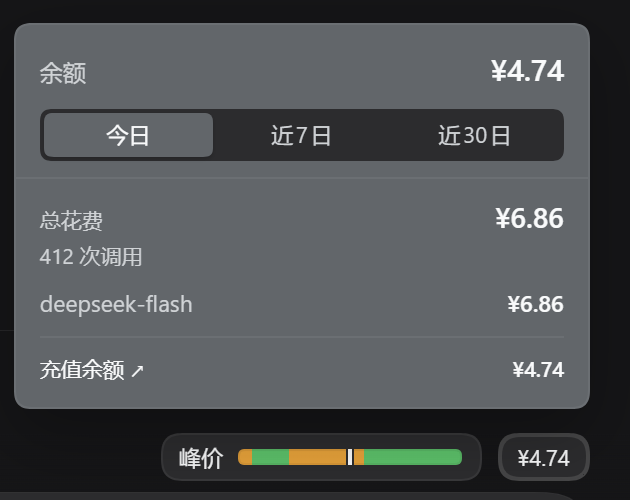
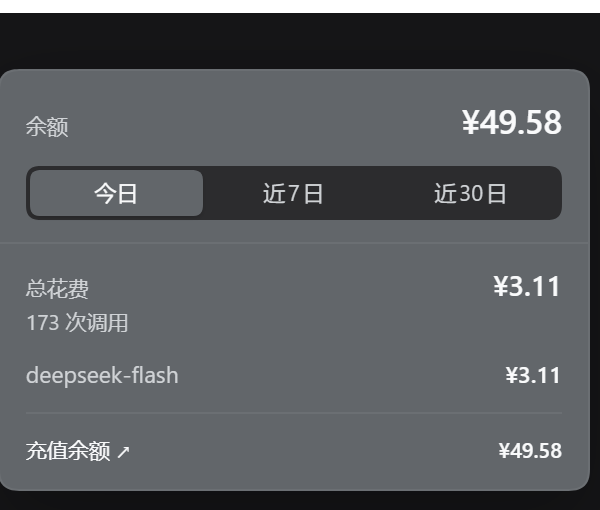
0.1.1: one instrument instead of two pills
The strip and the balance now share a single capsule with a hairline divider,
so they read as one reading rather than two chips. The tape gets a playhead
that overhangs it, the phase callout loses its redundant header, the panel
gains a real type scale (17px balance, 14px total, 10.5px captions), a
segmented tab track and a today-weighted bar chart. Screenshots refreshed.

diff --git a/client.js b/client.js
@@ -73,49 +73,57 @@ window.__ModuleLoader__.load({
 
     const CSS = `
 .dbb-row{box-sizing:border-box;width:100%;padding:0 calc(var(--dsh-composer-side-clearance,16px) - var(--dsh-composer-dock-inset,8px));display:flex;justify-content:center}
-.dbb-inner{box-sizing:border-box;width:100%;max-width:var(--dsh-composer-card-max-width,720px);display:flex;align-items:center;justify-content:flex-end;gap:8px;font-size:11px;line-height:1;color:var(--dsw-alias-label-secondary);user-select:none}
-.dbb-cell{position:relative;display:inline-flex}
-.dbb-bar{display:inline-flex;align-items:center;gap:7px;height:22px;padding:0 9px 0 8px;border-radius:999px;border:1px solid var(--dsw-alias-border-l1);background:var(--dsw-alias-bg-layer-2);cursor:default;transition:border-color .15s ease}
-.dbb-bar:hover,.dbb-bar:focus-visible,.dbb-balance:hover,.dbb-balance:focus-visible{border-color:var(--dsw-alias-border-l2);outline:none}
-.dbb-label{font-size:11px;color:var(--dsw-alias-label-primary);letter-spacing:.02em;white-space:nowrap}
-.dbb-strip{position:relative;display:block;width:112px;height:8px;border-radius:999px;overflow:hidden;background:var(--dsw-alias-bg-base);box-shadow:inset 0 0 0 1px var(--dsw-alias-border-l1)}
-.dbb-now{position:absolute;top:-1px;bottom:-1px;width:2px;transform:translateX(-1px);background:var(--dsw-alias-label-primary);box-shadow:0 0 0 1px var(--dsw-alias-bg-layer-2);border-radius:1px}
-.dbb-balance{display:inline-flex;align-items:center;height:22px;padding:0 9px;border-radius:999px;border:1px solid var(--dsw-alias-border-l1);background:var(--dsw-alias-bg-layer-2);color:var(--dsw-alias-label-secondary);font-variant-numeric:tabular-nums;cursor:pointer}
-.dbb-balance[data-pinned="1"]{border-color:var(--dsw-alias-border-l2);box-shadow:inset 0 0 0 1px var(--dsw-alias-border-l2);color:var(--dsw-alias-label-primary)}
-.dbb-tip{position:absolute;right:0;bottom:calc(100% + 8px);z-index:40;min-width:176px;padding:9px 11px;border-radius:9px;border:1px solid var(--dsw-alias-border-l1);background:var(--dsw-alias-bg-overlay);box-shadow:0 10px 28px rgba(0,0,0,.22);color:var(--dsw-alias-label-primary);font-size:11.5px;line-height:1.7;pointer-events:none;white-space:nowrap}
-.dbb-tip-head{color:var(--dsw-alias-label-secondary);margin-bottom:2px}
-.dbb-tip-strong{font-size:13px;font-weight:600;color:var(--dsw-alias-label-primary)}
-.dbb-tip-row{display:flex;justify-content:space-between;gap:20px;color:var(--dsw-alias-label-secondary)}
+.dbb-inner{box-sizing:border-box;width:100%;max-width:var(--dsh-composer-card-max-width,720px);display:flex;align-items:center;justify-content:flex-end;gap:8px;font-size:11px;line-height:1;user-select:none}
+.dbb-cap{position:relative;display:inline-flex;align-items:center;height:24px;border-radius:999px;border:1px solid var(--dsw-alias-border-l1);background:var(--dsw-alias-bg-layer-2);box-shadow:0 1px 1px rgba(0,0,0,.08)}
+.dbb-seg{display:inline-flex;align-items:center;gap:9px;height:100%;padding:0 11px;border-radius:999px;cursor:default;transition:background-color .14s ease}
+.dbb-seg:focus-visible{outline:2px solid var(--dsw-alias-brand-primary);outline-offset:-2px}
+.dbb-seg:hover,.dbb-seg:focus-visible{background:color-mix(in srgb, var(--dsw-alias-label-primary) 7%, transparent)}
+.dbb-sep{width:1px;height:12px;flex:none;background:var(--dsw-alias-border-l1)}
+.dbb-label{font-size:11px;color:var(--dsw-alias-label-primary);white-space:nowrap}
+.dbb-tapewrap{position:relative;display:block;width:120px;height:8px}
+.dbb-tape{position:absolute;inset:0;border-radius:4px;overflow:hidden;background:var(--dsw-alias-bg-base);box-shadow:inset 0 0 0 1px var(--dsw-alias-border-l1)}
+.dbb-needle{position:absolute;left:50%;top:-3px;bottom:-3px;width:2px;transform:translateX(-1px);border-radius:1px;background:var(--dsw-alias-label-primary);box-shadow:0 0 0 1px var(--dsw-alias-bg-layer-2)}
+.dbb-amount{font-size:12px;font-weight:500;color:var(--dsw-alias-label-primary);font-variant-numeric:tabular-nums;letter-spacing:.01em;white-space:nowrap}
+.dbb-seg-bal{padding:0 12px}
+.dbb-seg-bal[data-pinned="1"]{background:color-mix(in srgb, var(--dsw-alias-brand-primary) 13%, transparent)}
+.dbb-tip{position:absolute;right:0;bottom:calc(100% + 8px);z-index:40;min-width:200px;padding:11px 12px;border-radius:11px;border:1px solid var(--dsw-alias-border-l1);background:var(--dsw-alias-bg-overlay);box-shadow:0 14px 34px rgba(0,0,0,.24);color:var(--dsw-alias-label-primary);font-size:11.5px;line-height:1.6;pointer-events:none;white-space:nowrap;animation:dbb-rise .13s ease-out}
+.dbb-tip-head{display:flex;align-items:center;gap:7px}
+.dbb-swatch{display:inline-block;width:7px;height:7px;border-radius:2px;flex:none}
+.dbb-tip-strong{font-size:12.5px;font-weight:600;color:var(--dsw-alias-label-primary)}
+.dbb-tip-row{display:flex;justify-content:space-between;gap:18px;margin-top:4px;color:var(--dsw-alias-label-secondary)}
 .dbb-tip-row b{font-weight:500;color:var(--dsw-alias-label-primary);font-variant-numeric:tabular-nums}
-.dbb-tip-hint{margin-top:5px;padding-top:5px;border-top:1px solid var(--dsw-alias-border-l1);color:var(--dsw-alias-label-secondary);font-size:10.5px}
-.dbb-dot{display:inline-block;width:6px;height:6px;border-radius:999px;background:var(--dbb-accent);margin-right:6px;vertical-align:1px}
-.dbb-legend{display:flex;gap:12px;margin-top:5px;padding-top:5px;border-top:1px solid var(--dsw-alias-border-l1);font-size:10.5px;color:var(--dsw-alias-label-secondary)}
-.dbb-legend i{display:inline-block;width:8px;height:8px;border-radius:2px;margin-right:4px;vertical-align:-1px}
-.dbb-pop-wrap{position:absolute;right:0;bottom:calc(100% + 6px);z-index:41;padding-bottom:6px}
-.dbb-pop{width:262px;padding:10px 12px 11px;border-radius:10px;border:1px solid var(--dsw-alias-border-l1);background:var(--dsw-alias-bg-overlay);box-shadow:0 12px 32px rgba(0,0,0,.26);color:var(--dsw-alias-label-primary);font-size:11.5px;line-height:1.6}
-.dbb-pop-head{display:flex;align-items:baseline;justify-content:space-between;gap:12px}
-.dbb-pop-title{color:var(--dsw-alias-label-secondary)}
-.dbb-pop-balance{font-size:15px;font-weight:600;font-variant-numeric:tabular-nums}
-.dbb-tabs{display:flex;gap:2px;margin:8px 0 2px;padding:2px;border-radius:7px;background:var(--dsw-alias-bg-layer-2)}
-.dbb-tab{flex:1;height:22px;padding:0;border:none;border-radius:5px;background:transparent;color:var(--dsw-alias-label-secondary);font:inherit;font-size:11px;cursor:pointer}
+.dbb-hair{margin:8px -12px 0;border-top:1px solid var(--dsw-alias-border-l1)}
+.dbb-legend{display:flex;gap:14px;margin-top:8px;font-size:10.5px;color:var(--dsw-alias-label-secondary)}
+.dbb-legend span{display:inline-flex;align-items:center;gap:5px}
+.dbb-tip-hint{margin-top:8px;color:var(--dsw-alias-label-secondary);font-size:10.5px}
+.dbb-pop-wrap{position:absolute;right:0;bottom:calc(100% + 7px);z-index:41;padding-bottom:7px}
+.dbb-pop{width:268px;padding:12px 13px;border-radius:12px;border:1px solid var(--dsw-alias-border-l1);background:var(--dsw-alias-bg-overlay);box-shadow:0 16px 38px rgba(0,0,0,.28);color:var(--dsw-alias-label-primary);font-size:11.5px;line-height:1.5;animation:dbb-rise .13s ease-out}
+.dbb-pop-head{display:flex;align-items:flex-end;justify-content:space-between;gap:12px}
+.dbb-pop-title{font-size:10.5px;color:var(--dsw-alias-label-secondary);padding-bottom:2px}
+.dbb-pop-balance{font-size:17px;font-weight:600;letter-spacing:-.01em;font-variant-numeric:tabular-nums}
+.dbb-tabs{display:flex;gap:2px;margin-top:10px;padding:2px;border-radius:8px;background:var(--dsw-alias-bg-layer-2)}
+.dbb-tab{flex:1;height:23px;padding:0;border:none;border-radius:6px;background:transparent;color:var(--dsw-alias-label-secondary);font:inherit;font-size:11px;cursor:pointer;transition:color .12s ease}
 .dbb-tab:hover{color:var(--dsw-alias-label-primary)}
-.dbb-tab[data-on="1"]{background:var(--dsw-alias-bg-overlay);color:var(--dsw-alias-label-primary);box-shadow:0 1px 2px rgba(0,0,0,.16)}
-.dbb-pop-sep{margin:8px -12px 0;border-top:1px solid var(--dsw-alias-border-l1)}
-.dbb-pop-total{display:flex;align-items:baseline;justify-content:space-between;gap:12px;margin-top:8px}
-.dbb-pop-total b{font-size:14px;font-weight:600;font-variant-numeric:tabular-nums}
-.dbb-pop-muted{color:var(--dsw-alias-label-secondary);font-size:10.5px}
-.dbb-chart{display:flex;align-items:flex-end;gap:2px;height:34px;margin:7px 0 2px}
-.dbb-cbar{flex:1;min-width:2px;border-radius:2px 2px 0 0;background:var(--dsw-alias-brand-primary);opacity:.75}
-.dbb-cbar[data-zero="1"]{opacity:.18}
-.dbb-models{margin-top:6px;display:flex;flex-direction:column;gap:2px;max-height:110px;overflow-y:auto}
+.dbb-tab[data-on="1"]{background:var(--dsw-alias-bg-overlay);color:var(--dsw-alias-label-primary);box-shadow:0 1px 2px rgba(0,0,0,.14)}
+.dbb-sep-h{margin:11px -13px 0;border-top:1px solid var(--dsw-alias-border-l1)}
+.dbb-total{display:flex;align-items:baseline;justify-content:space-between;gap:12px;margin-top:10px}
+.dbb-total b{font-size:14px;font-weight:600;font-variant-numeric:tabular-nums}
+.dbb-sub{color:var(--dsw-alias-label-secondary);font-size:10.5px}
+.dbb-chart{display:flex;align-items:flex-end;gap:2px;height:36px;margin-top:10px;border-bottom:1px solid var(--dsw-alias-border-l1)}
+.dbb-cbar{flex:1;min-width:2px;border-radius:2px 2px 0 0;background:var(--dsw-alias-brand-primary);opacity:.62;transition:height .18s ease, opacity .12s ease}
+.dbb-cbar[data-zero="1"]{opacity:.16}
+.dbb-cbar[data-today="1"]{opacity:1}
+.dbb-models{margin-top:10px;display:flex;flex-direction:column;gap:3px;max-height:112px;overflow-y:auto}
 .dbb-model{display:flex;justify-content:space-between;gap:14px;color:var(--dsw-alias-label-secondary)}
 .dbb-model b{font-weight:500;color:var(--dsw-alias-label-primary);font-variant-numeric:tabular-nums}
-.dbb-pop-foot{margin-top:7px;padding-top:7px;border-top:1px solid var(--dsw-alias-border-l1);display:flex;flex-direction:column;gap:3px;color:var(--dsw-alias-label-secondary);font-size:10.5px}
-.dbb-pop-foot span,.dbb-recharge{display:flex;justify-content:space-between;gap:12px}
-.dbb-pop-foot b,.dbb-recharge b{font-weight:500;color:var(--dsw-alias-label-primary);font-variant-numeric:tabular-nums}
+.dbb-foot{margin-top:10px;padding-top:10px;border-top:1px solid var(--dsw-alias-border-l1);display:flex;flex-direction:column;gap:4px;color:var(--dsw-alias-label-secondary);font-size:10.5px}
+.dbb-foot > span,.dbb-recharge{display:flex;justify-content:space-between;gap:12px}
+.dbb-foot b,.dbb-recharge b{font-weight:500;color:var(--dsw-alias-label-primary);font-variant-numeric:tabular-nums}
 .dbb-recharge{color:var(--dsw-alias-brand-primary);text-decoration:none;cursor:pointer}
 .dbb-recharge:hover span{text-decoration:underline}
 .dbb-recharge b{color:var(--dsw-alias-brand-primary)}
+@keyframes dbb-rise{from{opacity:0;transform:translateY(3px)}to{opacity:1;transform:none}}
+@media (prefers-reduced-motion: reduce){.dbb-tip,.dbb-pop{animation:none}.dbb-cbar{transition:none}}
 `
 
     const money = value => (Number.isFinite(value) ? `¥${value.toFixed(2)}` : '—')
@@ -317,23 +325,26 @@ window.__ModuleLoader__.load({
       const balanceLabel = failed ? '—' : data === null ? '…' : balanceReady ? money(balance.total) : '—'
 
       const phaseTip = h('div', { className: 'dbb-tip', role: 'tooltip' },
-        h('div', { className: 'dbb-tip-head' }, dict.phaseTitle),
         failed
           ? h('div', { className: 'dbb-tip-row' }, h('span', null, dict.unavailable))
           : data === null
             ? h('div', { className: 'dbb-tip-row' }, h('span', null, dict.loading))
             : [
-                h('div', { key: 'head' },
-                  h('span', { className: 'dbb-dot' }),
+                h('div', { key: 'head', className: 'dbb-tip-head' },
+                  h('i', {
+                    className: 'dbb-swatch',
+                    style: { background: peak ? 'var(--dsw-alias-state-warn-primary)' : 'var(--dsw-alias-state-success-primary)' }
+                  }),
                   h('span', { className: 'dbb-tip-strong' }, peak ? dict.peak : dict.offPeak)),
                 data.phase.next
                   ? h('div', { key: 'next', className: 'dbb-tip-row' },
                       h('span', null, `${duration(remaining)}${dict.into}${data.phase.next.phase === 'peak' ? dict.peak : dict.offPeak}`),
                       h('b', null, clock(data.phase.next.at)))
                   : null,
+                h('div', { key: 'hair', className: 'dbb-hair' }),
                 h('div', { key: 'legend', className: 'dbb-legend' },
-                  h('span', null, h('i', { style: { background: 'var(--dsw-alias-state-warn-primary)' } }), dict.legendPeak),
-                  h('span', null, h('i', { style: { background: 'var(--dsw-alias-state-success-primary)' } }), dict.legendOff)),
+                  h('span', null, h('i', { className: 'dbb-swatch', style: { background: 'var(--dsw-alias-state-warn-primary)' } }), dict.legendPeak),
+                  h('span', null, h('i', { className: 'dbb-swatch', style: { background: 'var(--dsw-alias-state-success-primary)' } }), dict.legendOff)),
                 h('div', { key: 'hint', className: 'dbb-tip-hint' }, dict.windowHint)
               ]
       )
@@ -368,24 +379,25 @@ window.__ModuleLoader__.load({
               onClick: () => pickRange(item.id)
             }, dictIndex === 'zh' ? item.zh : item.en))),
 
-          h('div', { className: 'dbb-pop-sep' }),
+          h('div', { className: 'dbb-sep-h' }),
 
           failed
-            ? h('div', { className: 'dbb-pop-muted', style: { marginTop: 8 } }, dict.unavailable)
+            ? h('div', { className: 'dbb-sub', style: { marginTop: 10 } }, dict.unavailable)
             : usage === null
-              ? h('div', { className: 'dbb-pop-muted', style: { marginTop: 8 } }, dict.loading)
+              ? h('div', { className: 'dbb-sub', style: { marginTop: 10 } }, dict.loading)
               : [
-                  h('div', { key: 'total', className: 'dbb-pop-total' },
-                    h('span', { className: 'dbb-pop-muted' }, dict.total),
+                  h('div', { key: 'total', className: 'dbb-total' },
+                    h('span', { className: 'dbb-sub' }, dict.total),
                     h('b', null, shortMoney(usage.total))),
-                  h('div', { key: 'calls', className: 'dbb-pop-muted' },
+                  h('div', { key: 'calls', className: 'dbb-sub' },
                     `${usage.calls} ${dict.calls}${usage.unpricedCalls > 0 ? ` · ${usage.unpricedCalls} ${dict.unpriced}` : ''}`),
                   showChart
                     ? h('div', { key: 'chart', className: 'dbb-chart' },
-                        usage.days.map(entry => h('span', {
+                        usage.days.map((entry, index) => h('span', {
                           key: entry.date,
                           className: 'dbb-cbar',
                           'data-zero': entry.cost > 0 ? '0' : '1',
+                          'data-today': index === usage.days.length - 1 ? '1' : '0',
                           title: `${entry.date} ${shortMoney(entry.cost)}`,
                           style: { height: `${Math.max(entry.cost > 0 ? 8 : 3, Math.round(entry.cost / chartMax * 100))}%` }
                         })))
@@ -395,8 +407,8 @@ window.__ModuleLoader__.load({
                         usage.models.map(model => h('div', { className: 'dbb-model', key: model.model },
                           h('span', null, model.model),
                           h('b', null, shortMoney(model.cost)))))
-                    : h('div', { key: 'none', className: 'dbb-pop-muted', style: { marginTop: 6 } }, dict.noUsage),
-                  h('div', { key: 'foot', className: 'dbb-pop-foot' },
+                    : h('div', { key: 'none', className: 'dbb-sub', style: { marginTop: 8 } }, dict.noUsage),
+                  h('div', { key: 'foot', className: 'dbb-foot' },
                     balanceReady && balance.links?.topUp
                       ? h('a', {
                           key: 'topup',
@@ -417,42 +429,42 @@ window.__ModuleLoader__.load({
       return h(React.Fragment, null,
         h('style', null, CSS),
         h('div', { className: 'dbb-row' },
-          h('div', { className: 'dbb-inner', style: { '--dbb-accent': peak ? 'var(--dsw-alias-state-warn-primary)' : 'var(--dsw-alias-state-success-primary)' } },
-          h('div', {
-            className: 'dbb-cell',
-            onMouseEnter: () => openPanel('phase'),
-            onMouseLeave: scheduleClose
-          },
-            h('div', {
-              className: 'dbb-bar',
-              tabIndex: 0,
-              onFocus: () => openPanel('phase'),
-              onBlur: scheduleClose
-            },
-              h('span', { className: 'dbb-label' }, phaseLabel),
-              h('span', {
-                className: 'dbb-strip',
-                style: stops.length > 0 ? { background: `linear-gradient(to right, ${stops.join(',')})` } : undefined
+          h('div', { className: 'dbb-inner' },
+            h('div', { className: 'dbb-cap', ref: balanceCell },
+              h('div', {
+                className: 'dbb-seg',
+                tabIndex: 0,
+                onMouseEnter: () => openPanel('phase'),
+                onMouseLeave: scheduleClose,
+                onFocus: () => openPanel('phase'),
+                onBlur: scheduleClose
               },
-                day === null ? null : h('span', { className: 'dbb-now', style: { left: '50%' } }))),
-            open === 'phase' ? phaseTip : null),
+                h('span', { className: 'dbb-label' }, phaseLabel),
+                h('span', { className: 'dbb-tapewrap' },
+                  h('span', {
+                    className: 'dbb-tape',
+                    style: stops.length > 0 ? { background: `linear-gradient(to right, ${stops.join(',')})` } : undefined
+                  }),
+                  day === null ? null : h('span', { className: 'dbb-needle' }))),
 
-          h('div', {
-            className: 'dbb-cell',
-            ref: balanceCell,
-            onMouseEnter: () => openPanel('balance'),
-            onMouseLeave: scheduleClose
-          },
-            h('div', {
-              className: 'dbb-balance',
-              tabIndex: 0,
-              'data-pinned': pinned ? '1' : '0',
-              onClick: togglePin,
-              onFocus: () => openPanel('balance'),
-              onBlur: scheduleClose
-            }, balanceLabel),
-            open === 'balance' ? balancePanel : null
-          )))
+              h('span', { className: 'dbb-sep' }),
+
+              h('div', {
+                className: 'dbb-seg dbb-seg-bal',
+                tabIndex: 0,
+                role: 'button',
+                'aria-pressed': pinned ? 'true' : 'false',
+                'data-pinned': pinned ? '1' : '0',
+                onClick: togglePin,
+                onMouseEnter: () => openPanel('balance'),
+                onMouseLeave: scheduleClose,
+                onFocus: () => openPanel('balance'),
+                onBlur: scheduleClose
+              },
+                h('span', { className: 'dbb-amount' }, balanceLabel)),
+
+              open === 'phase' ? phaseTip : null,
+              open === 'balance' ? balancePanel : null)))
       )
     }
 
